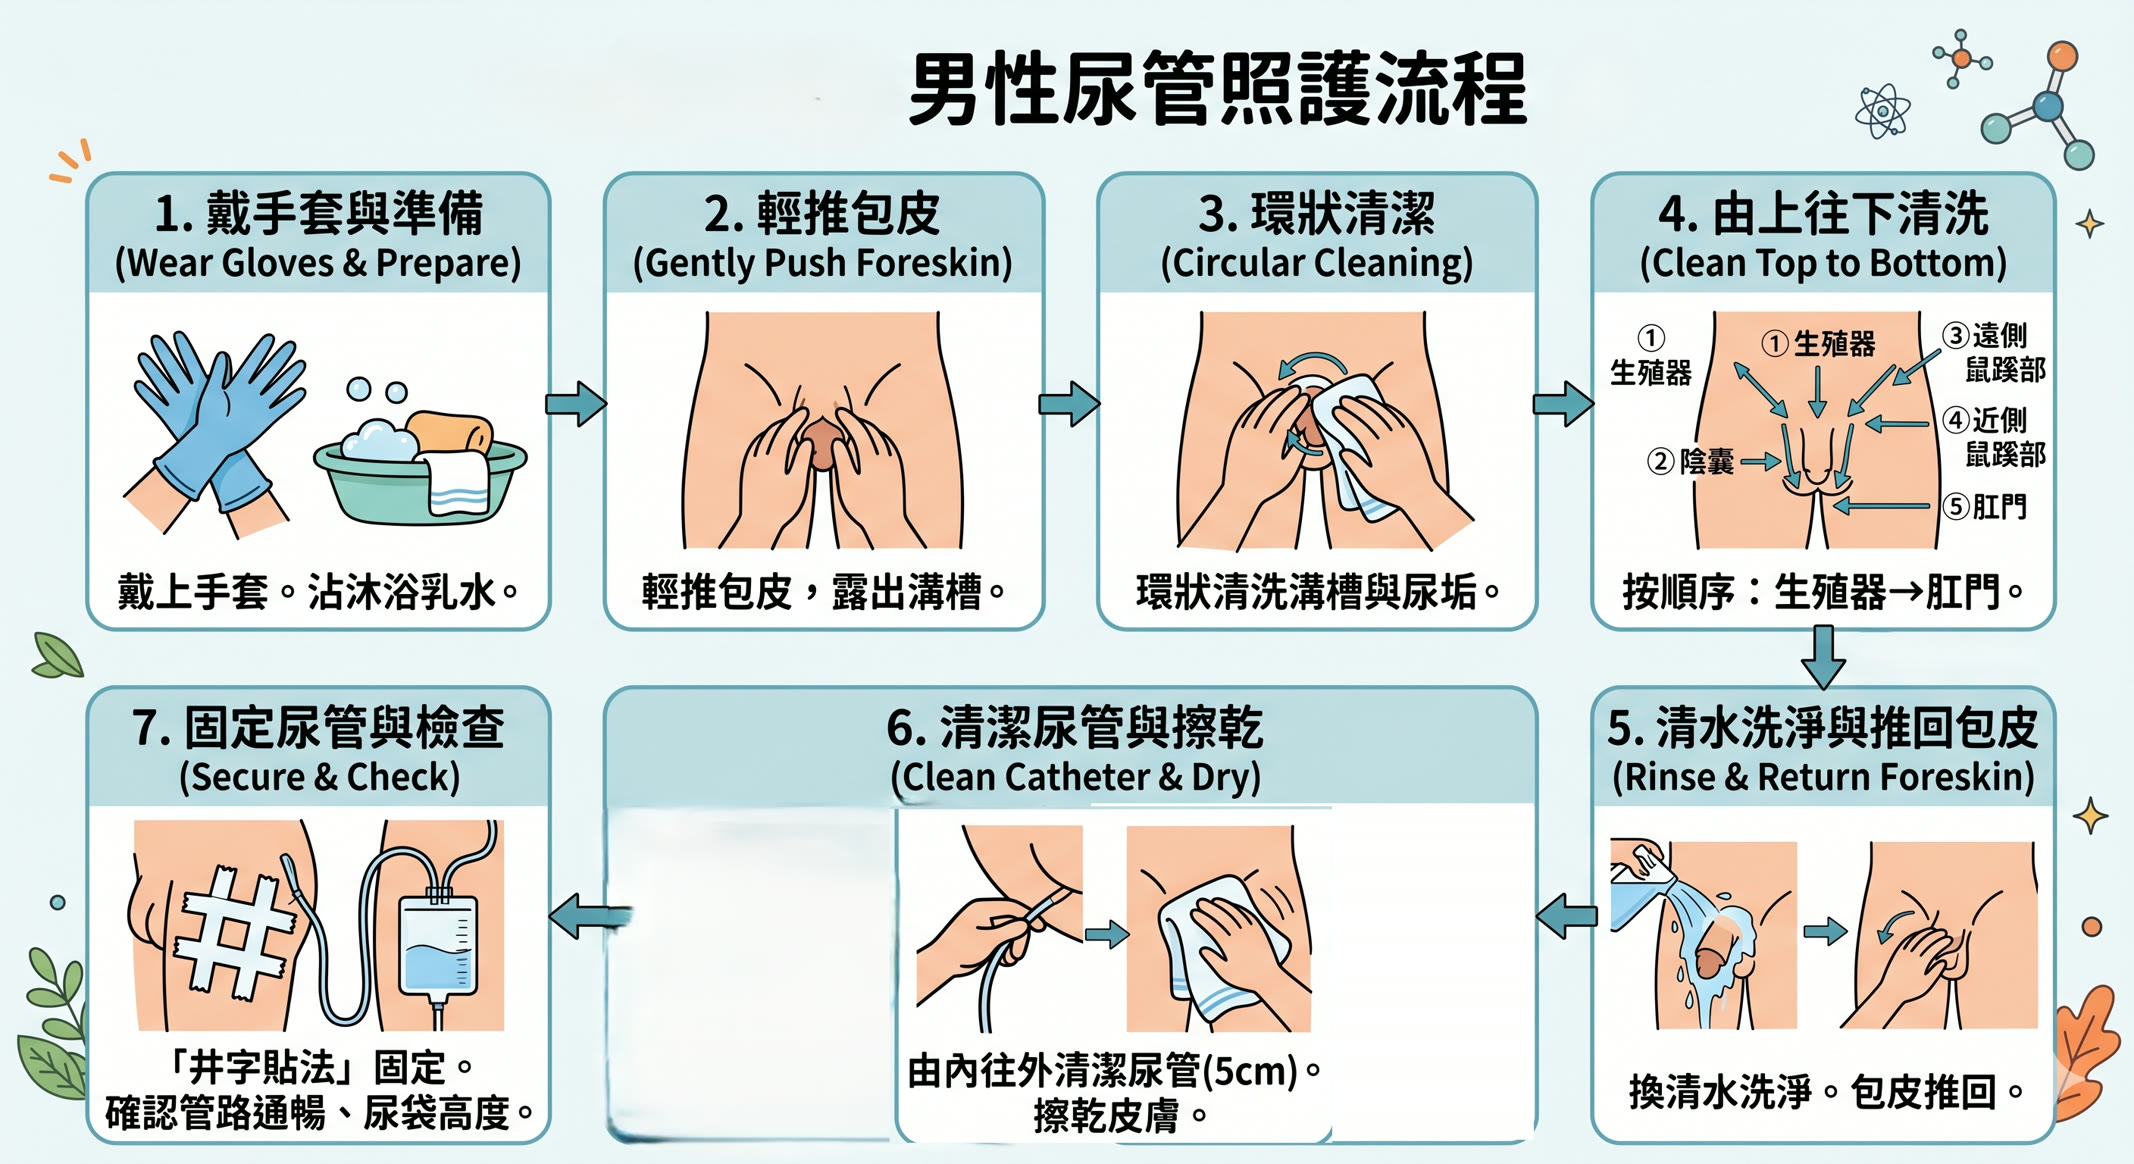
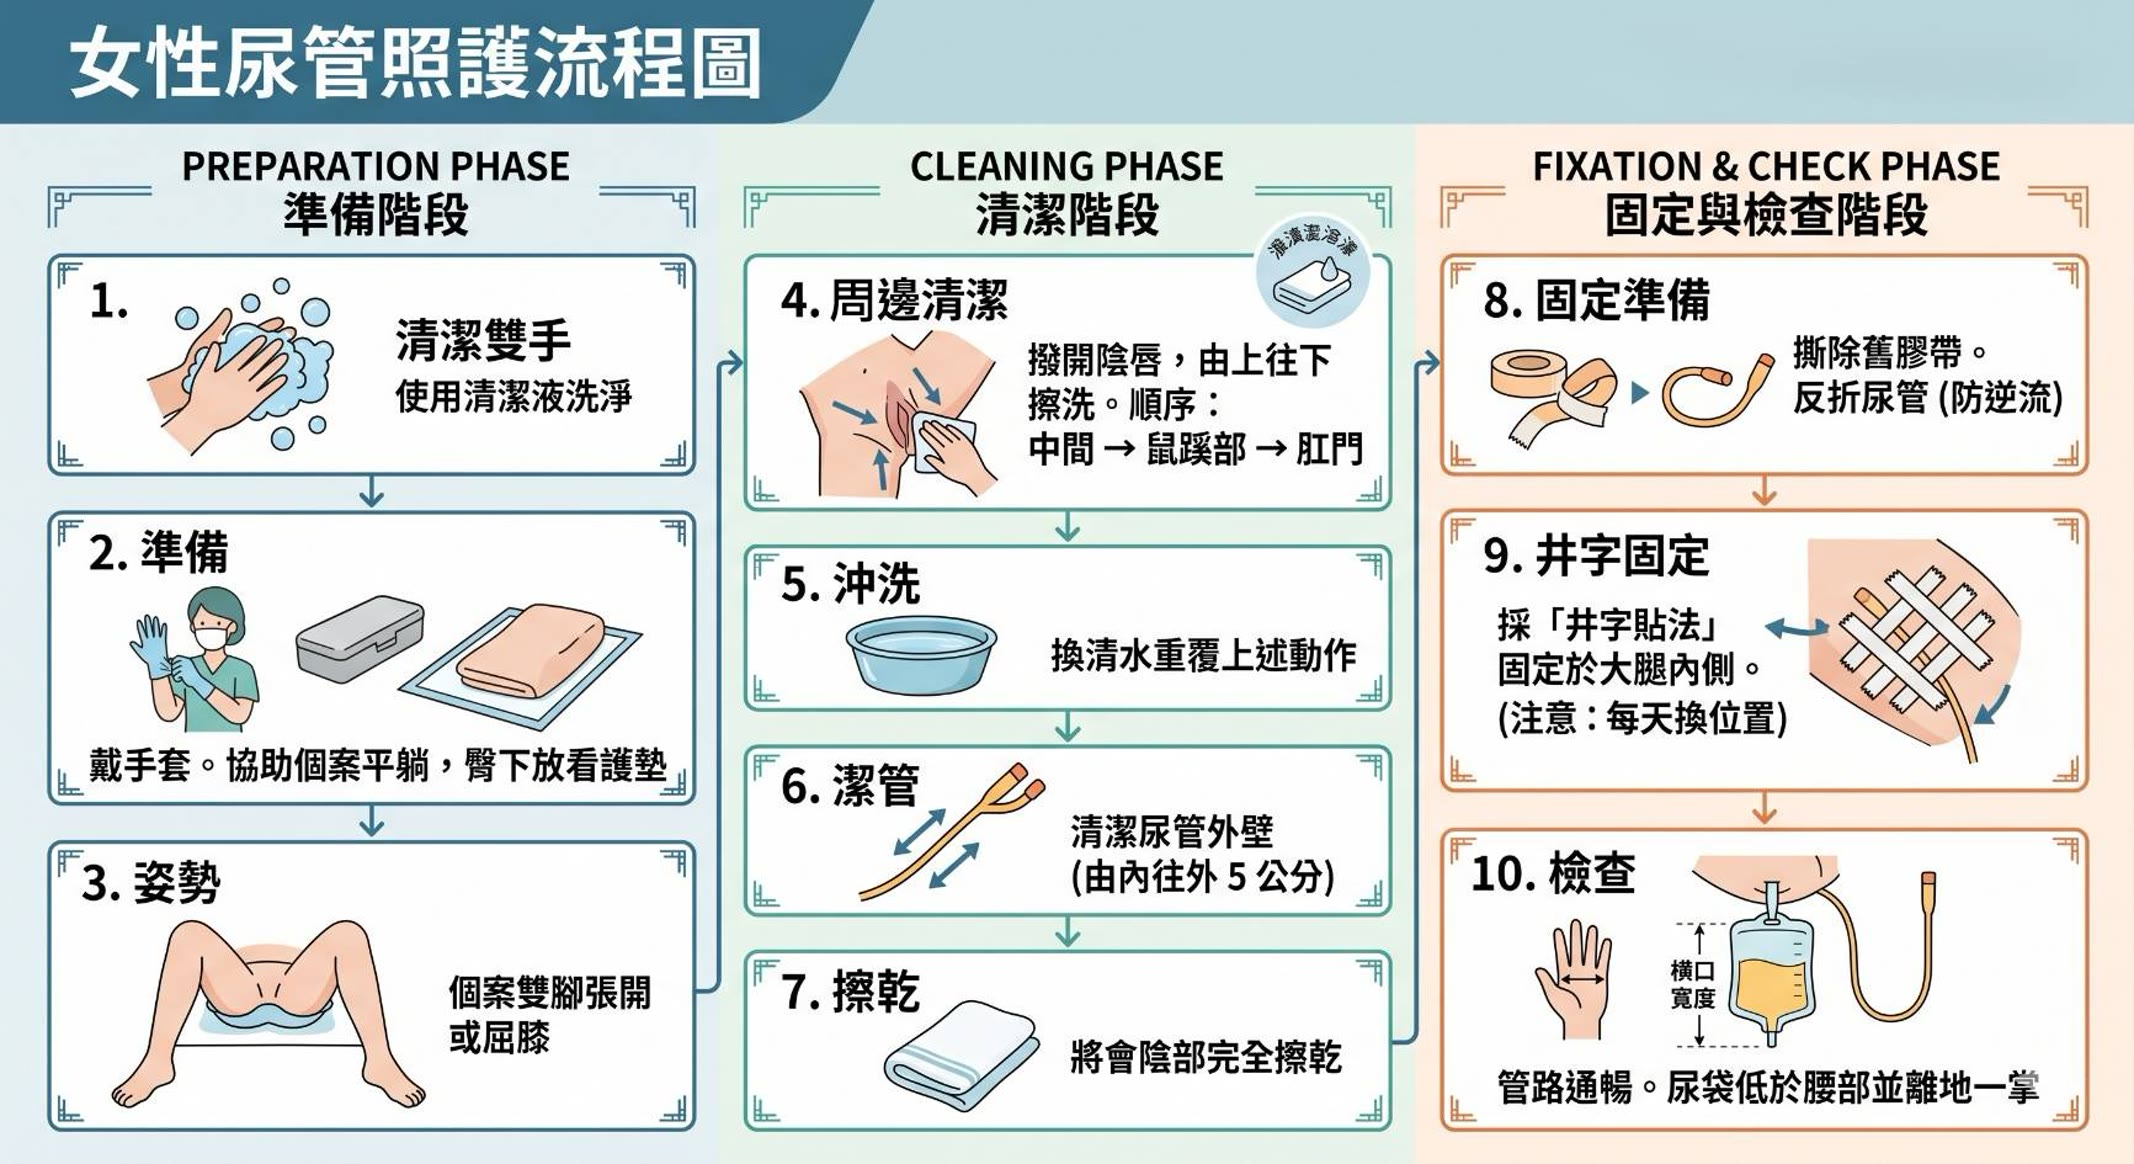
新增 18 個越南文/印尼文流程圖頁面（A02/B01/B02/C01/C02/C04/F01/F02 的 VI-P 及 A02/C04 的 ID-P）

diff --git a/public/assets/events/20260320/content.md b/public/assets/events/20260320/content.md
@@ -1,0 +1,12 @@
+🌟✨ 當 AI 遇見長照，會擦出什麼火花？ 
+這週，我們和產業夥伴深度討論關於 AI 如何真正走進照護的現場🐕💡 週五還邀請到跨校跨域夥伴-龔旭陽主任 （擔任顧問提供強大的IT+AI支援) 與會，提供技術面的專業建議 🎓✨
+做研究計畫最怕的就是「做完就沒了」😅 所以這次會議的核心問題是：技術怎麼落地？計畫結束後怎麼延續？
+會議中最讓大家驚豔的，是大維老師用 Dify 這套工具建製「CareConnect 雲端學園」，這個平台可以讓外籍照服員用母語發問，AI 就會從知識庫裡找答案回覆，還能追蹤學習歷程 📚✨
+除了學習平台，團隊還有「友善醫療指引」和「雙向翻譯」兩個 AI 助理 🤖🤖 想像一下：越南籍照服員帶阿公來看診，不知道掛哪一科、不知道怎麼描述症狀——現在有 AI 可以幫忙了！❤️
+這次合作最棒的地方是：我們不是各做各的 💪而是跨域團隊的合作典範！
+狗狗廠商有超強的技術底子（創辦人是台大電機背景，系統已經在好多長照產業上線了 🏆），但他們缺乏的是如何能與超級忙碌醫護場域合作的橋樑及「長照專業知識庫」以期建構及驗證Rag模型，而這正是文藻和高榮可以提供的！📖🩺
+文藻的語言優勢可以多國語化平台內容並且校正翻譯品質，高榮的護理團隊可以把臨床經驗轉化成知識內容，AI團隊及廠商則聚焦將這些Contents連結到穩定好用的系統 💻✨
+這樣的合作模式，讓計畫成果能真正延續下去，不會只是做完報告就結束 ♻️🌱
+每一步都不容易，但看到技術真的能幫助到人，就覺得一切都值得了 🥹💪
+我們會繼續努力，將多國語智慧學習平台結合AI ，期盼成為照護現場最給力的幫手！🤖❤️🇹🇼
+#文藻外語大學 #高雄榮總 #愛吠的狗 #AI長照 #CareConnect #產學合作 #移工照護 #華語教學 #技術落地 ✨🌉

diff --git a/public/assets/events/20260318/content.md b/public/assets/events/20260318/content.md
@@ -1,0 +1,6 @@
+【溫馨相聚！華語學辦相見歡🤝 陪伴的力量無所不在✨】
+3月18日，我們在文藻外語大學舉辦了一場充滿感動與溫度的學伴相見歡活動。這次不僅召集了正在線上進行陪伴教學的華語學辦，也邀請了許多對教學充滿熱忱的新同學，共同交流執行心得與未來展望🚀
+活動由Melody老師熱力開場，引導大家完成期中問卷，並由華語中心林學芳主任親自分享計畫的初心動念、目前的執行進度，以及未來課程發展的藍圖。林主任強調，我們不僅是在教語言，更是在建立一種跨越文化的連結。
+💡【小螺絲釘的大力量：學伴文海與美幸的真情分享】
+會中，學伴文海分享了他的心情故事。原本只是想磨練自己的華語教學能力，但在陪伴的過程中，他深刻感受到自己能像「小螺絲釘」一樣，支撐起異地同鄉姐姐們在台灣的生活，陪伴她們提早適應職場環境。另外一位學伴美幸也分享她未來的志向就是要成為華語老師，所以很高興不僅有這個機會能夠幫助自己家鄉的越南朋友，還能有機會「做中學」… 這份「原來我也可以付出力量」以及「相互扶持成長」的感動，正是本計畫最珍貴的收穫。
+#國科會計畫 #華語教學 #學伴計畫 #文化交流 #善的循環 #文藻外語大學 #小螺絲釘